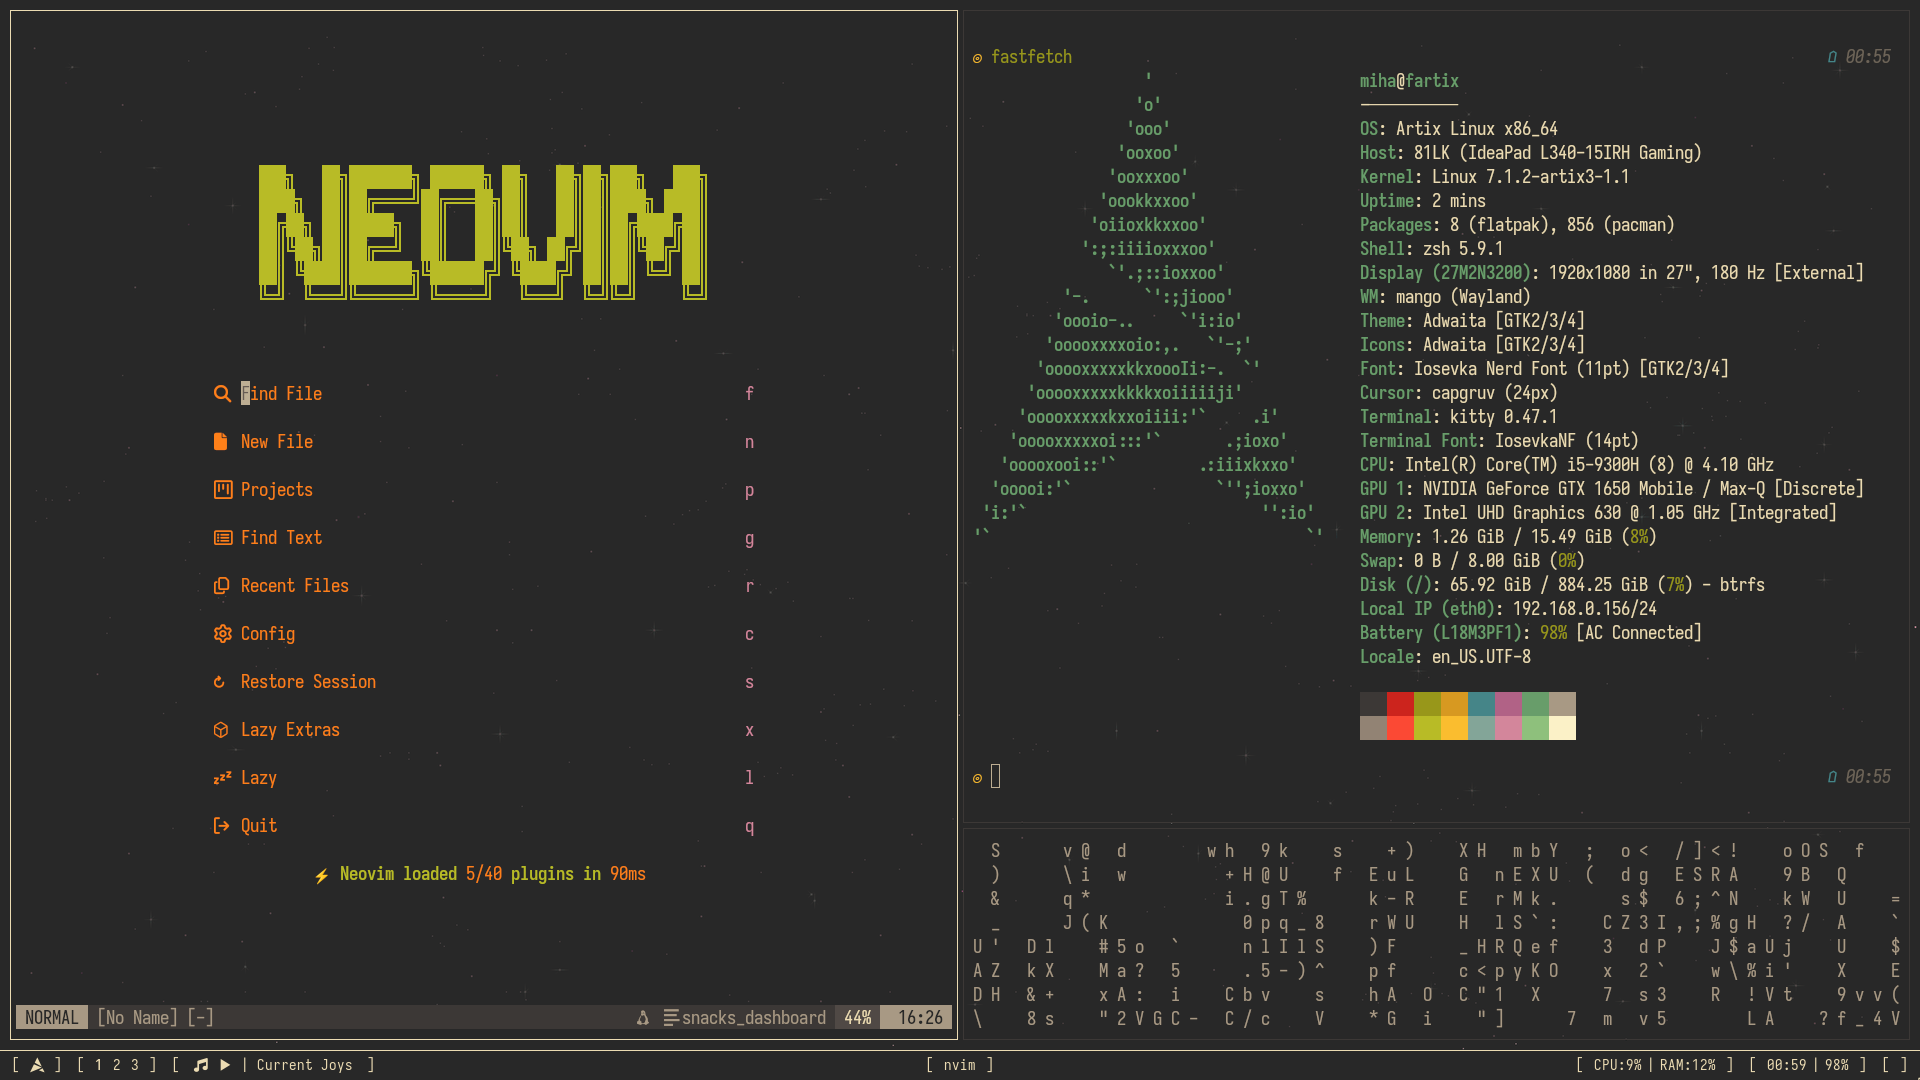
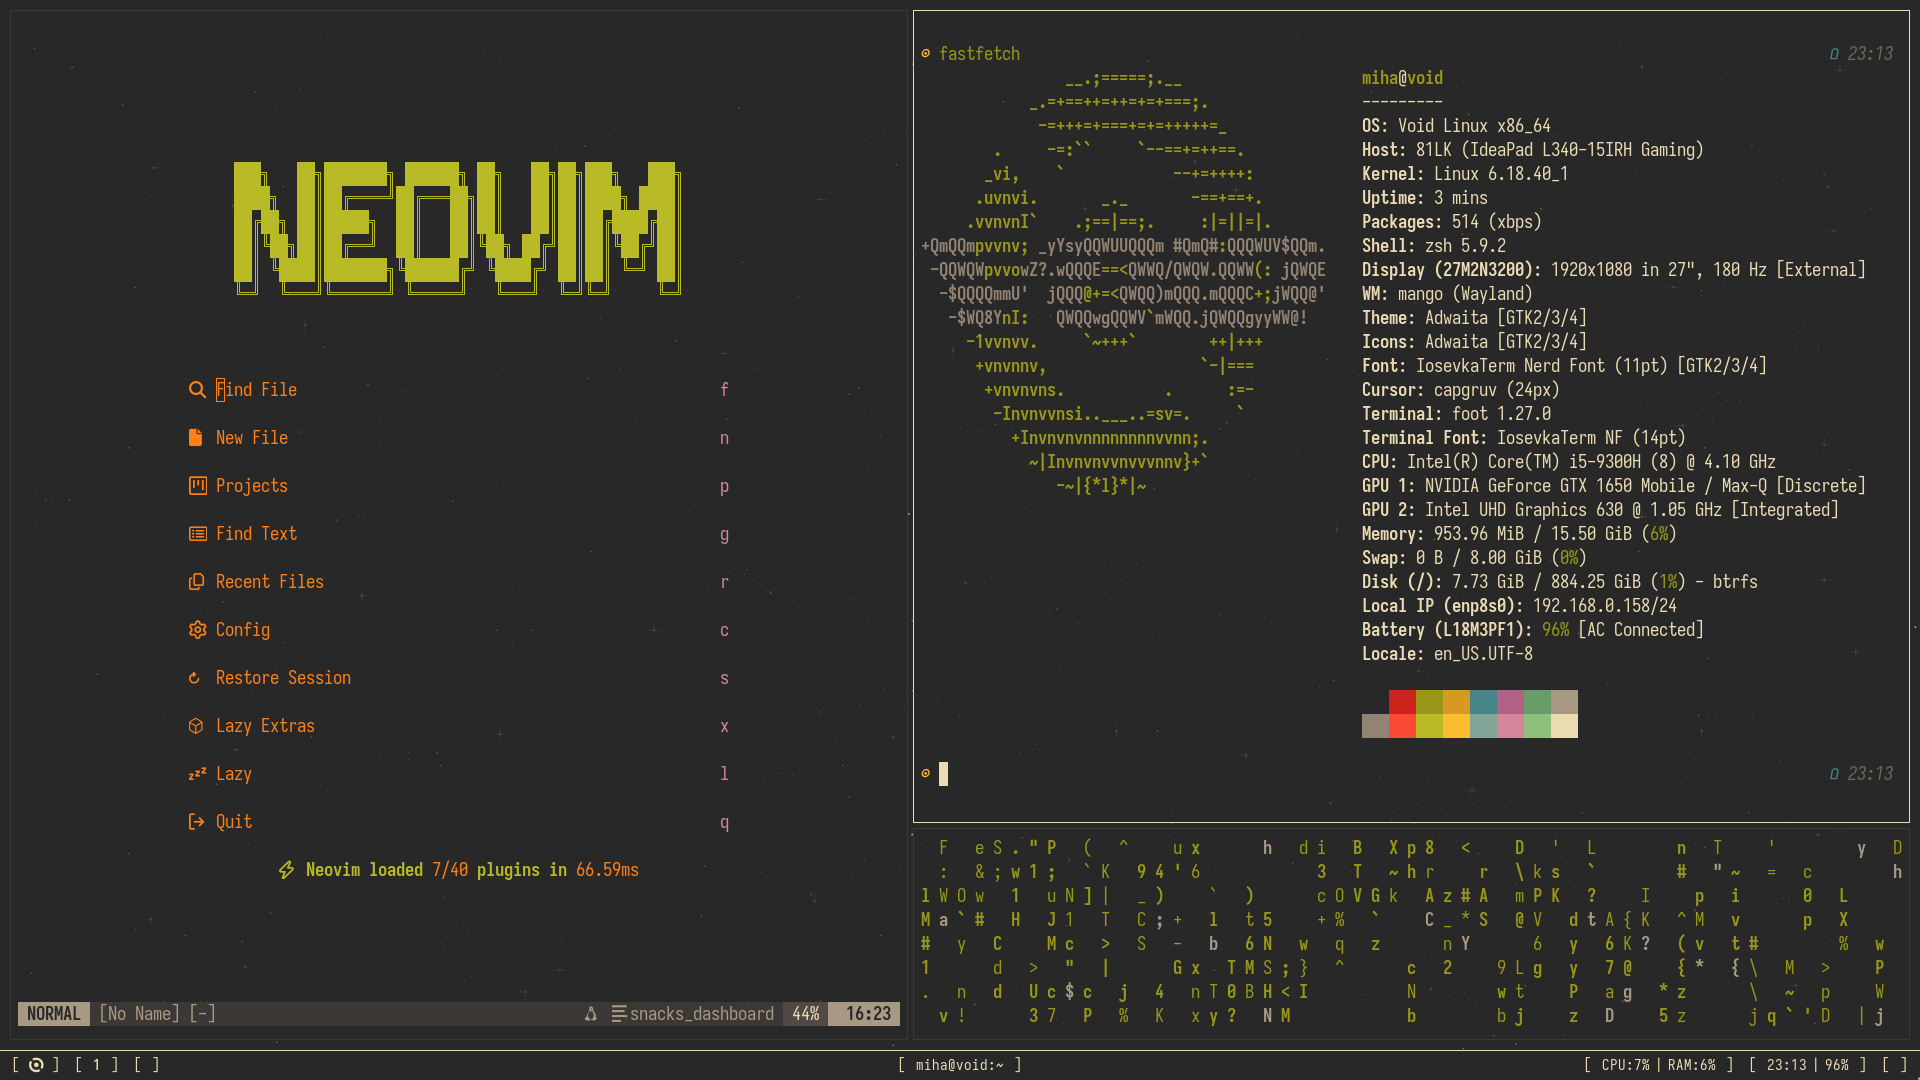
void switch

diff --git a/waybar/.config/waybar/style.css b/waybar/.config/waybar/style.css
@@ -9,7 +9,7 @@
 @define-color urgent #B05A5A;
 
 * {
-  font-family: "Iosevka Nerd Font";
+  font-family: "IosevkaTerm NF";
   font-size: 15px;
 }
 
@@ -52,8 +52,8 @@ window#waybar.empty #window {
 }
 
 #custom-void {
-  padding-right: 11px;
-  padding-left: 4.8px;
+  padding-right: 10px;
+  padding-left: 4px;
   font-size: 15px;
   border-radius: 8px;
 }
